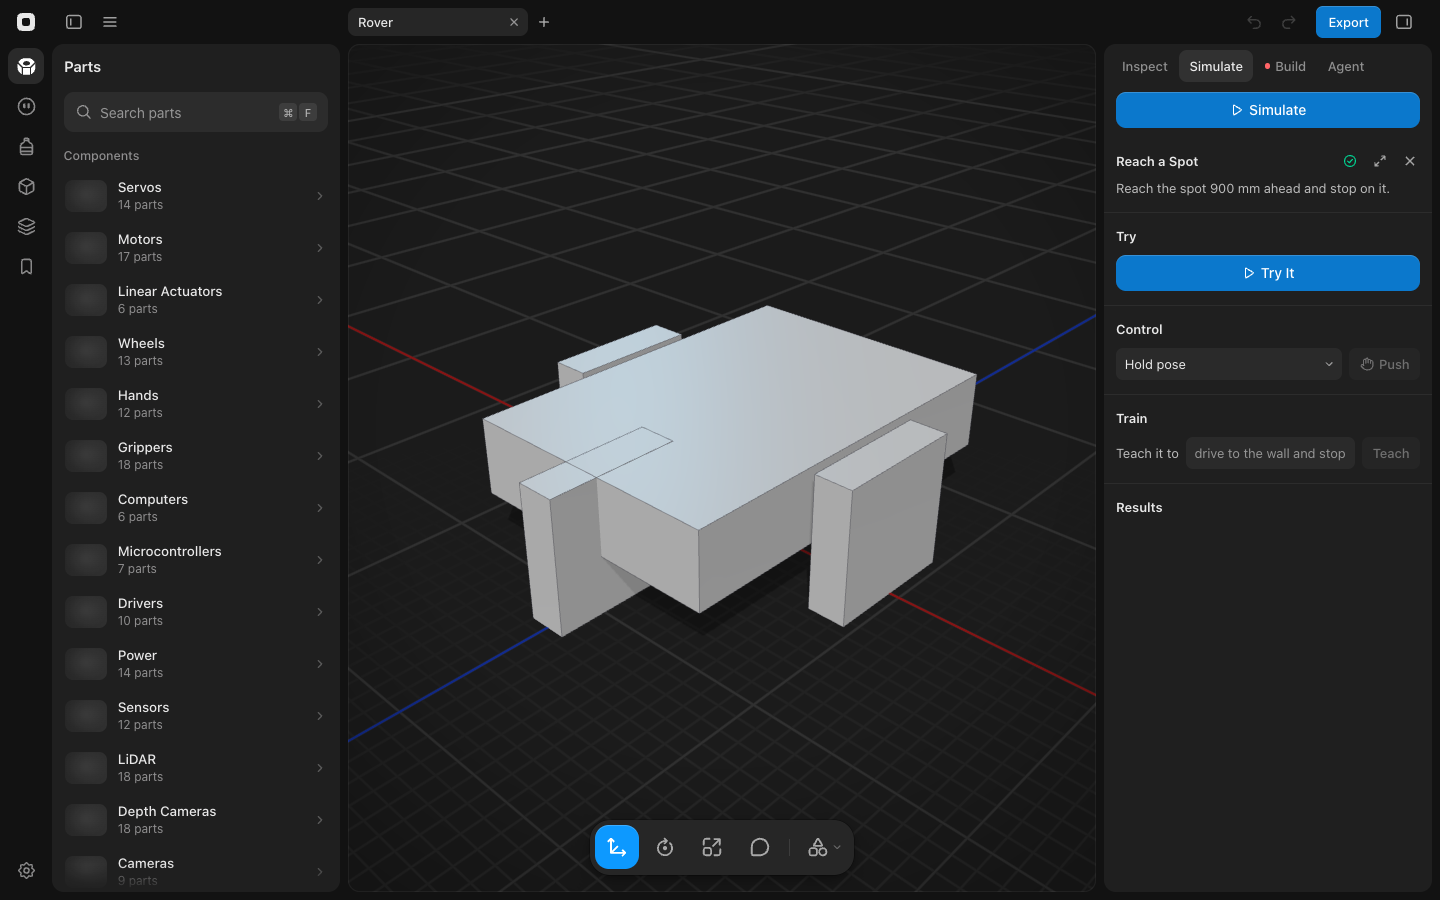
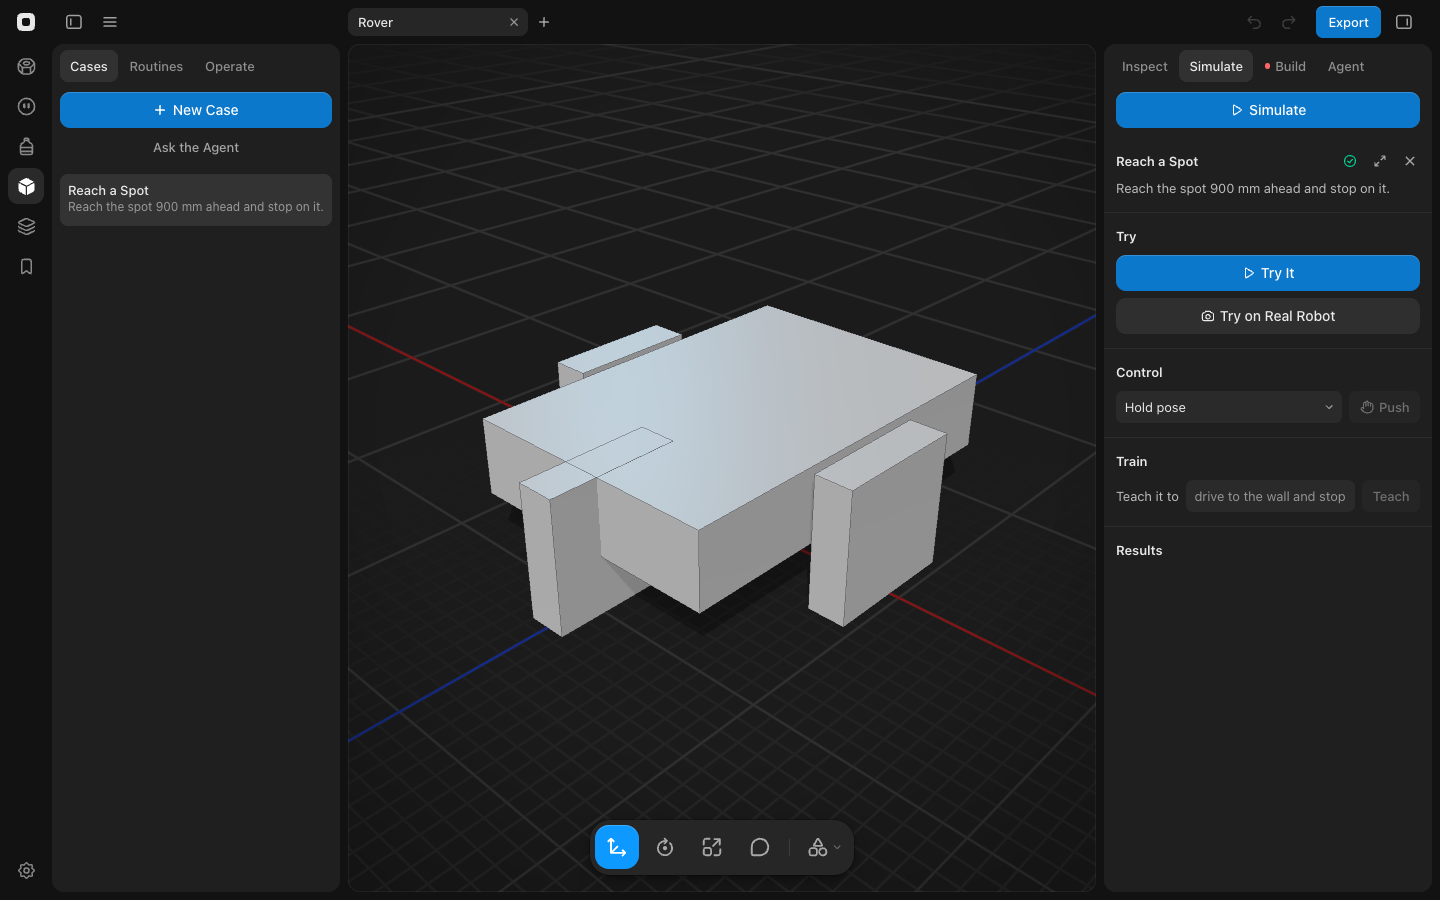
Refuse a mat only on consecutive off-scale frames, and name tracking failures
The tracker counted every off-scale or high-residual frame across the
whole try and refused the try at 5. So a few blurred or half-covered
frames could throw away a run on a correctly printed mat, and the
person was told to reprint it. Now a frame whose corners miss by more
than 6 mm only drops its base. Off-scale frames refuse only when 5 come
in a row, and a frame that fits resets the count. A new test runs 900
frames with scattered misprinted and smeared frames and checks that
nothing is refused.

A worker error during a real try used to toast "Couldn't open the
camera.", even with the camera open. It now toasts "Mat tracking
stopped. Try on Real Robot again." Samples carry each VideoFrame's own
timestamp instead of the time tracking finished. replay.png is now shown
in the help article. matBounds has one home in matLayout.ts, and
tagImages reuses fitHomography instead of carrying its own solver.

Help articles that cover the edited code were read against it.
get-a-robot-ready-to-build's rover Case screenshot is recaptured with
Try on Real Robot. try-a-robot-on-a-case points to the real-robot try.
share-a-robot-as-a-link no longer sends people to a Share Robot button
in Results that main had already removed: it is in ⌘K only.

diff --git a/src/cameras/mat/tags.worker.ts b/src/cameras/mat/tags.worker.ts
@@ -7,13 +7,18 @@ import { FEED_FPS, type MatFeed, type TagsEvent, type TagsRequest } from './tags
 
 type Picture = VideoFrame | ImageBitmap;
 
+interface Shot {
+  picture: Picture;
+  t: number;
+}
+
 const scope = self as unknown as DedicatedWorkerGlobalScope;
 
 let mat: CaseMat | null = null;
 let tracker: MatTracker | null = null;
 let detector: TagDetector | null = null;
 let reader: ReadableStreamDefaultReader<VideoFrame> | null = null;
-let latest: Picture | null = null;
+let latest: Shot | null = null;
 let scheduled = false;
 let fed = false;
 let pendingFeed: MatFeed | null = null;
@@ -27,6 +32,8 @@ const post = (event: TagsEvent) => scope.postMessage(event);
 const fail = (e: unknown) => post({ type: 'error', message: e instanceof Error ? e.message : String(e) });
 
 const nowSeconds = () => (performance.timeOrigin + performance.now()) / 1000;
+
+const shotTime = (picture: Picture) => ('timestamp' in picture ? picture.timestamp / 1e6 : nowSeconds());
 
 function track(gray: Uint8Array, size: { width: number; height: number }, t: number) {
   if (!detector || !tracker) return;
@@ -64,28 +71,28 @@ function grayOf(picture: Picture): { gray: Uint8Array; width: number; height: nu
 function trackLatest() {
   scheduled = false;
 
-  const picture = latest;
+  const shot = latest;
 
   latest = null;
 
-  if (!picture) return;
+  if (!shot) return;
 
   try {
-    const { gray, width, height } = grayOf(picture);
+    const { gray, width, height } = grayOf(shot.picture);
 
-    track(gray, { width, height }, nowSeconds());
+    track(gray, { width, height }, shot.t);
   } catch (e) {
     fail(e);
   } finally {
-    picture.close();
+    shot.picture.close();
   }
 }
 
 function take(picture: Picture) {
   if (fed || closed || !detector) return picture.close();
 
-  latest?.close();
-  latest = picture;
+  latest?.picture.close();
+  latest = { picture, t: shotTime(picture) };
 
   if (scheduled) return;
 
@@ -141,7 +148,7 @@ function runFeed(feed: MatFeed) {
 
 function feed(next: MatFeed) {
   fed = true;
-  latest?.close();
+  latest?.picture.close();
   latest = null;
 
   if (feedTimer !== null) clearTimeout(feedTimer);
@@ -181,7 +188,7 @@ function close() {
 
   if (feedTimer !== null) clearTimeout(feedTimer);
 
-  latest?.close();
+  latest?.picture.close();
   latest = null;
   void reader?.cancel().catch(() => undefined);
   detector?.dispose();

diff --git a/src/cameras/mat/matTracker.test.ts b/src/cameras/mat/matTracker.test.ts
@@ -2,11 +2,12 @@ import { describe, expect, it } from 'vitest';
 import { buildCase, builderRobot } from '../../cases/caseBuilder';
 import { stageCase } from '../../cases/caseCast';
 import { caseMat, type CaseMat } from '../../cases/mat/matLayout';
-import { matCamera, shoot, type CameraSetup } from '../../cases/mat/matTesting';
+import { matCamera, shoot, testDetector, type CameraSetup } from '../../cases/mat/matTesting';
 import { fixtureRobots } from '../../sim/fixtures/robots';
 import { buildRig } from '../../utils/kinematics';
-import type { BaseFix } from './matSolve';
-import { MAT_SCALE_REFUSAL, type MatSample } from './matTracker';
+import { renderMatFrame } from './matFrames';
+import type { BaseFix, SeenTag } from './matSolve';
+import { createMatTracker, MAT_SCALE_REFUSAL, trackMat, type MatSample } from './matTracker';
 
 const SECONDS = 1;
 
@@ -78,6 +79,29 @@ describe('tracking the base on a printed mat', { timeout: 30_000 }, () => {
     expect(refusal).toBe(MAT_SCALE_REFUSAL);
     expect(samples.filter((s) => s.base).length).toBeLessThan(samples.length / 2);
     expect(samples.at(-1)?.base).toBeNull();
+  });
+
+  it('keeps tracking through scattered off-scale and smeared frames', async () => {
+    const size = { width: 960, height: 540 };
+    const camera = matCamera(mat);
+    const tags = await testDetector();
+    const seenAt = (printScale: number) =>
+      tags.detect(renderMatFrame({ mat, camera, ...size, base: moving(0), printScale }), size.width, size.height);
+    const [good, misprinted] = [seenAt(1), seenAt(0.97)];
+    const smeared: SeenTag[] = good.map((tag, i) =>
+      i === 0 ? { ...tag, corners: tag.corners.map(([x, y], k) => [k ? x : x + 60, y]) } : tag,
+    );
+    const tracker = createMatTracker(trackMat(mat));
+    const frames = Array.from({ length: 900 }, (_, i) => {
+      if (i % 37 === 20) return misprinted;
+
+      return i % 53 === 30 ? smeared : good;
+    });
+    const samples = frames.map((seen, i) => tracker.push(seen, size, i / 30));
+
+    expect(tracker.refusal()).toBeNull();
+    expect(samples.filter((s, i) => frames[i] === good && !s.base).length).toBeLessThan(10);
+    expect(samples.filter((s, i) => frames[i] === smeared && s.base)).toHaveLength(0);
   });
 
   it('gives the same trace for the same frames', async () => {

diff --git a/src/cameras/mat/tagImages.ts b/src/cameras/mat/tagImages.ts
@@ -1,3 +1,4 @@
+import { apply, fitHomography } from './homography';
 import { TAG_CELLS, tagCells } from './tag36h11';
 
 export type ImagePoint = [number, number];
@@ -30,51 +31,12 @@ const SQUARE_IN_CELLS: ImagePoint[] = [
   [1, 9],
 ];
 
-function pivotRow(m: number[][], col: number): number {
-  let pivot = col;
+function homography(from: ImagePoint[], to: ImagePoint[]): Mapper {
+  const fit = fitHomography(from.map((p, k) => ({ from: p, to: to[k] })));
 
-  for (let row = col + 1; row < m.length; row++) {
-    if (Math.abs(m[row][col]) > Math.abs(m[pivot][col])) pivot = row;
-  }
+  if (!fit) throw new Error('Tag corners are degenerate');
 
-  return pivot;
-}
-
-function eliminate(m: number[][], col: number): void {
-  for (let row = 0; row < m.length; row++) {
-    const f = row === col ? 0 : m[row][col] / m[col][col];
-
-    for (let k = col; k < m[row].length; k++) m[row][k] -= f * m[col][k];
-  }
-}
-
-function solve(m: number[][]): number[] {
-  for (let col = 0; col < m.length; col++) {
-    const pivot = pivotRow(m, col);
-
-    [m[col], m[pivot]] = [m[pivot], m[col]];
-    eliminate(m, col);
-  }
-
-  return m.map((row, i) => row[row.length - 1] / row[i]);
-}
-
-export function homography(from: ImagePoint[], to: ImagePoint[]): Mapper {
-  const rows = from.flatMap(([u, v], k) => {
-    const [x, y] = to[k];
-
-    return [
-      [u, v, 1, 0, 0, 0, -u * x, -v * x, x],
-      [0, 0, 0, u, v, 1, -u * y, -v * y, y],
-    ];
-  });
-  const h = solve(rows);
-
-  return (u, v) => {
-    const z = h[6] * u + h[7] * v + 1;
-
-    return [(h[0] * u + h[1] * v + h[2]) / z, (h[3] * u + h[4] * v + h[5]) / z];
-  };
+  return (u, v) => apply(fit, [u, v]);
 }
 
 function random(seed: number): () => number {

diff --git a/src/workspace/devMatFeed.ts b/src/workspace/devMatFeed.ts
@@ -1,4 +1,4 @@
-import type { CaseMat } from '../cases/mat/matLayout';
+import { matBounds, type CaseMat } from '../cases/mat/matLayout';
 import { feedMatFrames, matTrackingSnapshot } from '../cameras/mat/matTracking';
 import { FEED_FPS, type FeedPose, type MatFeed } from '../cameras/mat/tagsProtocol';
 import type { WorkspaceCore } from './useWorkspaceCore';
@@ -20,17 +20,6 @@ const CAMERA_BACK_MM = 300;
 const FEED_HFOV_DEG = 70;
 const FEED_SIZE = { width: 640, height: 360 };
 
-function matBounds(mat: CaseMat) {
-  const xs = mat.sheets.flatMap((s) => [s.x0, s.x0 + s.width]);
-  const zs = mat.sheets.flatMap((s) => [s.z0, s.z0 + s.height]);
-
-  return {
-    cx: (Math.min(...xs) + Math.max(...xs)) / 2,
-    cz: (Math.min(...zs) + Math.max(...zs)) / 2,
-    minZ: Math.min(...zs),
-  };
-}
-
 export function matFeedOf(mat: CaseMat, seconds: number, hide?: [number, number]): MatFeed {
   const [rx, , rz] = mat.base.center;
   const [px, pz] = mat.path[0];
@@ -44,7 +33,8 @@ export function matFeedOf(mat: CaseMat, seconds: number, hide?: [number, number]
 
     return { t, base: hidden(t) ? null : { x: rx + (to.x - rx) * k, z: rz + (to.z - rz) * k, yaw } };
   });
-  const { cx, cz, minZ } = matBounds(mat);
+  const { minX, maxX, minZ, maxZ } = matBounds(mat);
+  const [cx, cz] = [(minX + maxX) / 2, (minZ + maxZ) / 2];
 
   return {
     camera: {

diff --git a/src/cameras/mat/matTracking.ts b/src/cameras/mat/matTracking.ts
@@ -12,6 +12,8 @@ export interface MatTrackingState {
   error: string | null;
 }
 
+export const MAT_TRACKING_STOPPED = 'Mat tracking stopped. Try on Real Robot again.';
+
 const TRACK_SIZE = { width: 1280, height: 720 };
 const CLOSED: MatTrackingState = { open: false, latest: null, refusal: null, error: null };
 
@@ -39,7 +41,7 @@ function receive(event: TagsEvent) {
   if (event.type === 'ready') return settle(null);
 
   if (event.type === 'error') {
-    settle(CAMERA_REFUSAL);
+    settle(MAT_TRACKING_STOPPED);
 
     return set({ error: event.message });
   }
@@ -74,7 +76,7 @@ function start(mat: CaseMat, stream: MediaStream | null) {
   const open: TagsRequest = { type: 'open', mat, frames: frames?.frames, standIn: !!standIn };
 
   worker.onmessage = (ev: MessageEvent<TagsEvent>) => receive(ev.data);
-  worker.onerror = (ev) => receive({ type: 'error', message: ev.message || CAMERA_REFUSAL });
+  worker.onerror = (ev) => receive({ type: 'error', message: ev.message || MAT_TRACKING_STOPPED });
   worker.postMessage(open, frames?.frames ? [frames.frames] : []);
 
   if (standIn) worker.postMessage({ type: 'feed', feed: standIn } satisfies TagsRequest);

diff --git a/src/workspace/useRealTry.ts b/src/workspace/useRealTry.ts
@@ -6,13 +6,13 @@ import { scoreTry, tryManifest, type TryRecord } from '../cases/tries';
 import { saveRecording } from '../cases/tryStore';
 import {
   closeMatTracking,
+  MAT_TRACKING_STOPPED,
   matTrackingSnapshot,
   onMatSample,
   openMatTracking,
   useMatTracking,
 } from '../cameras/mat/matTracking';
 import type { FloorPoint } from '../cameras/mat/tag36h11';
-import { CAMERA_REFUSAL } from '../cameras/operator/operatorCamera';
 import type { MatSample } from '../cameras/mat/matTracker';
 import type { Viewport3DHandle } from '../components/Viewport3D';
 import type { Simulation } from '../sim/useSimulation';
@@ -57,7 +57,7 @@ const newTryId = () => `try-${Date.now().toString(36)}-${Math.random().toString(
 function lostTo(tracking: ReturnType<typeof useMatTracking>, running: boolean): string | null {
   if (!running) return null;
 
-  return tracking.refusal ?? (tracking.error ? CAMERA_REFUSAL : null);
+  return tracking.refusal ?? (tracking.error ? MAT_TRACKING_STOPPED : null);
 }
 
 export function useRealTry(options: RealTryOptions): RealTry {

diff --git a/src/cases/mat/matTesting.ts b/src/cases/mat/matTesting.ts
@@ -8,7 +8,7 @@ import { simDeltas } from '../../sim/mjcfFrames';
 import type { SimModel } from '../../sim/mjcfTypes';
 import { framePoses, type Recording } from '../../sim/recorder';
 import type { Rig } from '../../utils/kinematics';
-import type { BaseTag, CaseMat } from './matLayout';
+import { matBounds, type BaseTag, type CaseMat } from './matLayout';
 import type { RealSample } from './realTry';
 
 export interface CameraSetup {
@@ -19,15 +19,6 @@ export interface CameraSetup {
 }
 
 const DEFAULT_LENS: Lens = { model: 'pinhole', hfovDeg: 70 };
-
-export function matBounds(mat: CaseMat) {
-  const minX = Math.min(...mat.sheets.map((s) => s.x0));
-  const maxX = Math.max(...mat.sheets.map((s) => s.x0 + s.width));
-  const minZ = Math.min(...mat.sheets.map((s) => s.z0));
-  const maxZ = Math.max(...mat.sheets.map((s) => s.z0 + s.height));
-
-  return { minX, maxX, minZ, maxZ };
-}
 
 export function matCamera(mat: CaseMat, setup: CameraSetup = {}): MatCamera {
   const { minX, maxX, minZ, maxZ } = matBounds(mat);

diff --git a/src/cases/mat/matLayout.ts b/src/cases/mat/matLayout.ts
@@ -158,3 +158,12 @@ export const matTagCorners = (mat: CaseMat): Array<{ id: number; corners: FloorP
     corners: tagCorners([mat.base.center[0], mat.base.center[2]], mat.base.size, mat.base.up),
   },
 ];
+
+export function matBounds(mat: CaseMat) {
+  const minX = Math.min(...mat.sheets.map((s) => s.x0));
+  const maxX = Math.max(...mat.sheets.map((s) => s.x0 + s.width));
+  const minZ = Math.min(...mat.sheets.map((s) => s.z0));
+  const maxZ = Math.max(...mat.sheets.map((s) => s.z0 + s.height));
+
+  return { minX, maxX, minZ, maxZ };
+}

diff --git a/src/cameras/mat/matTracker.ts b/src/cameras/mat/matTracker.ts
@@ -63,9 +63,11 @@ export function createMatTracker(mat: TrackMat): MatTracker {
   };
 
   const trueToScale = (view: MatView) => {
-    const fits = Math.abs(view.scale - 1) <= SCALE_TOLERANCE && view.residualMm <= MAX_RESIDUAL_MM;
+    if (view.residualMm > MAX_RESIDUAL_MM) return false;
 
-    if (!fits) misfits++;
+    const fits = Math.abs(view.scale - 1) <= SCALE_TOLERANCE;
+
+    misfits = fits ? 0 : misfits + 1;
 
     if (misfits >= SCALE_FRAMES) refused = MAT_SCALE_REFUSAL;
 

diff --git a/docs/guide/cases.md b/docs/guide/cases.md
@@ -169,7 +169,7 @@ A ground Case (its first slot needs wheels or legs) can be printed as a floor ma
 
 - **The mat** (`src/cases/mat/matLayout.ts`, `caseMat(staged, { rig, parts }, paper)`, null for any other Case): portrait A4 or Letter sheets (`paperFor(navigator.language)`: Letter for US, CA, MX, PH, CL, CO, VE, PR and GT, else A4) laid edge to edge, covering the start box (the robot's footprint at its pivot), the spots, the path from the pivot through each spot, and the other world objects' footprints, plus 100 mm. Looking down, scene +z is up the page and +x is to the left, so the robot drives up the mat. Mat tags are AprilTag 36h11, black square 140 mm, one centred on a sheet (`matGrid.ts`): the four corner sheets, then sheets along the edges so neighbours are at most 1 m apart, never over the drawing (the grid grows when a corner would cover it). Ids run from 0; the base tag is id 100 (`BASE_TAG_ID`), sized to the root link's top (80% of its smaller side, 48–120 mm), at the root link's top centre with its top along the robot's forward. Rover-diff's Reach a Spot is 21 A4 sheets and 6 tags; quad-servo's Follow a Path is 45 sheets and 9 tags.
 - **The PDF** (`matPdf.ts`, hand-written PDF 1.4 in `pdfWriter.ts`, no dependency): one page per sheet from the top left, each labelled `A1`, `B3`…, then the base tag page with an arrow to the robot's front. Each tag is one Form XObject placed with `cm`, so a test can count them. **Export Case Mat** (the open Case's right-click menu in Cases, and ⌘K; desktop only) stages the Case and saves the PDF as `⟨case-slug⟩-mat.pdf` (`useCaseMat.ts`). Its tag positions are the ones the tracker solves against; `matPdf.test.ts` reads every placement back out of the PDF and checks it against the layout for every ground goal on rover-diff, rover-four and quad-servo.
-- **Try on Real Robot** (`useRealTry.ts`, under Try It, and ⌘K's Try ⟨Case⟩ on Real Robot): the person tapes the base tag on top of the robot and points a camera at the mat. It opens the mat tracker (§8l) and records its samples from the first one for the Case's time, or until Stop Try. The try's clock is the samples' own: frame times from a camera, feed times from a test feed. It never starts the sim or the drive and sends nothing to motors. A scale refusal or a tracking error toasts and records nothing. Try It and Try on Real Robot are disabled while the other runs.
+- **Try on Real Robot** (`useRealTry.ts`, under Try It, and ⌘K's Try ⟨Case⟩ on Real Robot): the person tapes the base tag on top of the robot and points a camera at the mat. It opens the mat tracker (§8l) and records its samples from the first one for the Case's time, or until Stop Try. The try's clock is the samples' own: each camera frame's own timestamp (a browser that hands over `ImageBitmap`s instead stamps it when it reaches the worker), feed times from a test feed. It never starts the sim or the drive and sends nothing to motors. A scale refusal toasts it; a worker error toasts “Mat tracking stopped. Try on Real Robot again.”; either records nothing. Try It and Try on Real Robot are disabled while the other runs.
 - **Judged like a sim try** (`src/cases/mat/realTry.ts`): `realRecording` resamples the base at 50 Hz, interpolating position and yaw between samples up to 0.15 s apart, and moves every robot body rigidly with the tracked base (height and tilt stay as at rest); world objects stay where the Case put them. A longer gap is NaN, so a probe can't read it: a success never passes on it and a failure fires on it (the contract fails closed, §8i). A quadruped whose base tag is hidden therefore trips Fell. `scoreTry` judges the recording unchanged and the record carries `real: true`. A real try has no qpos, commands or joints, so it stays out of what needs them: Export Dataset, Multiply (`multipliable`), Train from Tries (`simTries`), the try timeline and filmstrips.
 - **Results:** the row shows Passed or Missed like any try, with a **Real** badge. Its Replay draws paths instead of opening the timeline (`useRealReplay.ts`, `src/three/viewport/matTrack.ts` on `stage.overlays`, so captures never show them): its base path (`basePathOf`) in the accent over the best passing sim try's in grey, until another Replay, the Case closes, the try is deleted, or Esc. While tracking, the canvas draws the real base as an accent ring with a heading tick and its path so far; one preallocated buffer per line is updated in place, and the canvas redraws only when it changed.
 - **Test hooks** (dev and test builds, `devMatFeed.ts`): `__studio.feedMatFrames({ seconds, hide })` stands in for the camera with frames rendered from the open Case's mat (the base tag driving to the last spot over the first 60% of the time, then holding; no base during `hide`; a 70° camera 1600 mm up and 300 mm behind the mat, 640 × 360, since from 900 mm behind it found the tag near the spot in only 8 of 21 frames). `__studio.caseMat()` returns its sheet and tag counts and `__studio.matTrack()` the tracking state.

diff --git a/docs/guide/cameras.md b/docs/guide/cameras.md
@@ -36,7 +36,7 @@ What a robot sees: the camera parts on it, the stationary camera views placed in
   - **Opening:** `openMatTracking(mat)` (`matTracking.ts`, a module store) asks for 1280 × 720 through the operator camera's `requestCameraStream` and passes the frames to `tags.worker.ts` through the same `frameSource`, so there's no second permission path. Closing stops every track and ends the worker.
   - **The detector** is AprilTag 36h11 in our own Rust (`tools/apriltag/`, built to `public/apriltag/apriltag.wasm` by `npm run build:apriltag`, Security §0h). It thresholds per 4 × 4 tile, finds dark blobs on a 2× decimated image for frames 1000 px or wider, fits a quad to each blob's convex hull, refines each edge at full resolution and decodes within Hamming 2 in all four rotations. `corners[0]` is always the tag's own top-left. The codebook has one home, `tag36h11Codes.ts`, handed to the module at load. On synthetic renders the corners are within about 0.05 px RMS.
   - **Solving** (`matSolve.ts`, `matTracker.ts`): with at least two mat tags in view, `homography.ts` fits their floor corners to the image. The focal length comes from that homography (principal point at the centre, square pixels) and locks at the median of the first 5 estimates. The camera's pose follows from it, and each base tag corner's ray meets the plane at the tag's height, which gives the tag's centre and yaw in Case coordinates. A camera looking almost straight down gives no focal length; after 15 views the tracker assumes a 70° lens.
-  - **Scale check:** each frame measures the mat tags through the floor homography. A frame whose tags are off by more than 1.5%, or whose corners miss by more than 6 mm, gives no base, and 5 such frames refuse with “Print the mat at 100% scale.” Fit to page shrinks each sheet about its centre, where its tag sits, so tags shrink while their spacing doesn't: a 97% print measures 0.971.
+  - **Scale check:** each frame measures the mat tags through the floor homography. A frame whose corners miss by more than 6 mm (blur, a half-covered tag) gives no base and counts toward nothing. A frame whose tags are off by more than 1.5% gives no base, and 5 of them in a row refuse with “Print the mat at 100% scale.”; one that fits resets the count, so stray frames over a long run never throw the try away. Fit to page shrinks each sheet about its centre, where its tag sits, so tags shrink while their spacing doesn't: a 97% print measures 0.971.
   - **Speed:** detecting and solving take 1.8 ms per 1280 × 720 frame against a 30 fps camera's 33 ms (`matTracker.perf.test.ts`, run by `vitest.perf.config.ts`; Node on an Apple M5 Pro at a load average near 100). In the worker each frame is first drawn to an `OffscreenCanvas` and read back as gray. It hasn't been measured on CI.
   - **Frames stay in the worker** and are never written to disk; only `{ t, base, tags }` samples reach the page.
   - **In tests** `feedMatFrames(feed)` stands in for the camera. Called before opening, it's held, no camera opens, and the worker renders each pose itself with `renderMatFrame` (`matFrames.ts`). That's a CPU ray-caster of the mat's sheets, tags and base tag through `lens.ts`'s lens model, supersampled only on pixels that straddle an edge, with seeded noise; `printScale` shrinks each sheet about its centre. The unit tests use the same renderer, so none need a camera or WebGL.

diff --git a/site/content/help/share-a-robot-as-a-link.md b/site/content/help/share-a-robot-as-a-link.md
@@ -16,9 +16,7 @@ Send someone a link that opens your robot and its Case in their browser, where t
 
 1. Add a Hugging Face access token with write access in Settings ▸ Accounts, as in [Publish a dataset to Hugging Face](/help/publish-a-dataset-to-hugging-face).
 2. Open a Case for your robot from the Cases tab in the Play view.
-3. In the Simulate tab, click **Share Robot** in Results. It's also in ⌘K.
-
-![Results in the Simulate tab with Share Robot under it](/help/share-a-robot-as-a-link/results.png)
+3. Press [[⌘K]] and choose **Share Robot**.
 
 4. When the toast says Link copied, paste the link wherever you want to send it. It looks like `https://app.basecase.so/r/your-name/desk-rover-e39785`.
 
